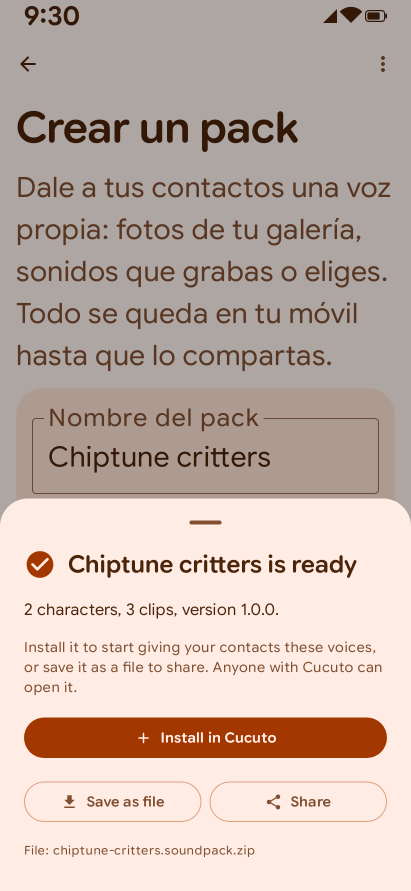
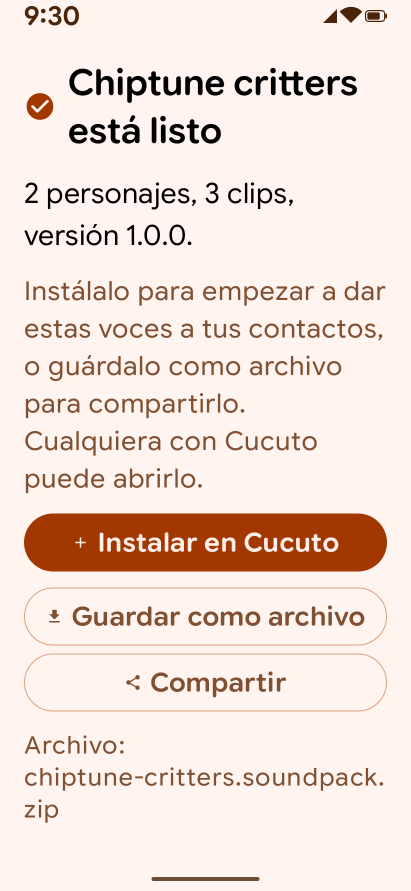
fix(creator): stack Save and Share with large fonts

diff --git a/android/app/src/main/kotlin/app/mauri/cucuto/ui/creator/FinishSheet.kt b/android/app/src/main/kotlin/app/mauri/cucuto/ui/creator/FinishSheet.kt
@@ -3,6 +3,7 @@ package app.mauri.cucuto.ui.creator
 import androidx.compose.foundation.layout.Arrangement
 import androidx.compose.foundation.layout.Box
 import androidx.compose.foundation.layout.Column
+import androidx.compose.foundation.layout.FlowRow
 import androidx.compose.foundation.layout.Row
 import androidx.compose.foundation.layout.fillMaxWidth
 import androidx.compose.foundation.layout.padding
@@ -37,6 +38,7 @@ import app.mauri.cucuto.core.pack.ImportProgress
 import app.mauri.cucuto.packs.ImportProblem
 import app.mauri.cucuto.packs.ProblemItem
 import app.mauri.cucuto.packspec.authoring.DraftProblem
+import app.mauri.cucuto.ui.components.isLargeFont
 
 /**
  * "Check and finish": the pack is built and run through the same checks as the importer, packer and the website.
@@ -179,7 +181,13 @@ private fun ReadyContent(
             }
         }
         if (!ready.installing) {
-            Row(horizontalArrangement = Arrangement.spacedBy(8.dp), modifier = Modifier.fillMaxWidth()) {
+            // Side by side, or one under the other with large fonts, so "Share" is never cut mid-word (#226).
+            FlowRow(
+                horizontalArrangement = Arrangement.spacedBy(8.dp),
+                verticalArrangement = Arrangement.spacedBy(8.dp),
+                maxItemsInEachRow = if (isLargeFont()) 1 else 2,
+                modifier = Modifier.fillMaxWidth(),
+            ) {
                 OutlinedButton(onClick = {
                     onExport(ready.fileName)
                 }, shapes = ButtonDefaults.shapes(), modifier = Modifier.weight(1f)) {

diff --git a/CLAUDE.md b/CLAUDE.md
@@ -50,7 +50,7 @@ notification sound and vibration per contact, using clips from user-imported sou
 ## Repository layout
 
 ```
-android/        Gradle project (:app, :xposed, :core:*) — Kotlin, Compose, Material 3 Expressive
+android/        Gradle project (:app, :xposed, :core:*, :baselineprofile) — Kotlin, Compose, Material 3 Expressive
 web/            SvelteKit static site + PWA pack creator
 tools/packer/   Kotlin JVM CLI: build packs, bundles, repository indexes
 shared/         pack-spec: the pack format rules (Kotlin Multiplatform), included by tools/packer and android/
